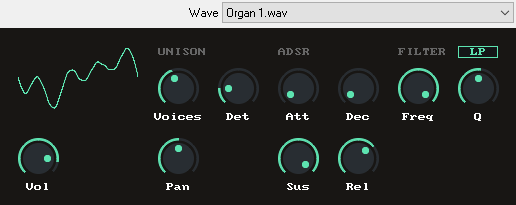
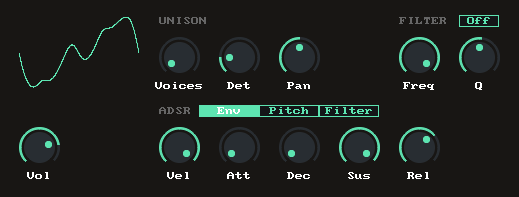
docs

diff --git a/README.md b/README.md
@@ -8,7 +8,6 @@ Features:
 * Single cycle waveforms read from wav files
 * 16 polyphonic voices with independent adsr
 * 8 unison voices with detune and panning controls
-* Adsr envelope controls
-* One global filter (LP, BP or HP)
+* ADSR for amplitude pitch and filter
 
 Available on ReaPack
